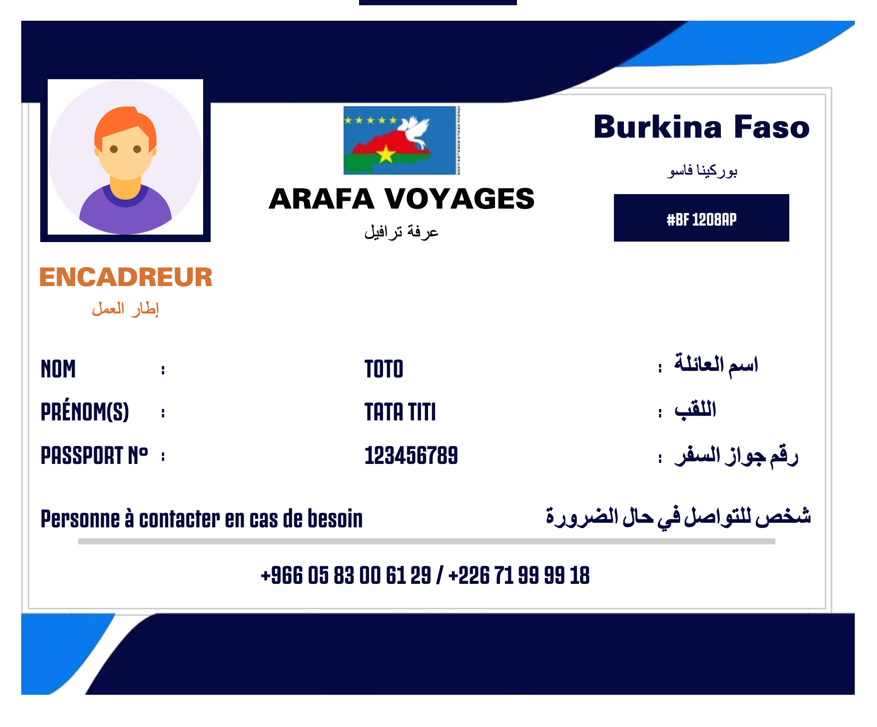
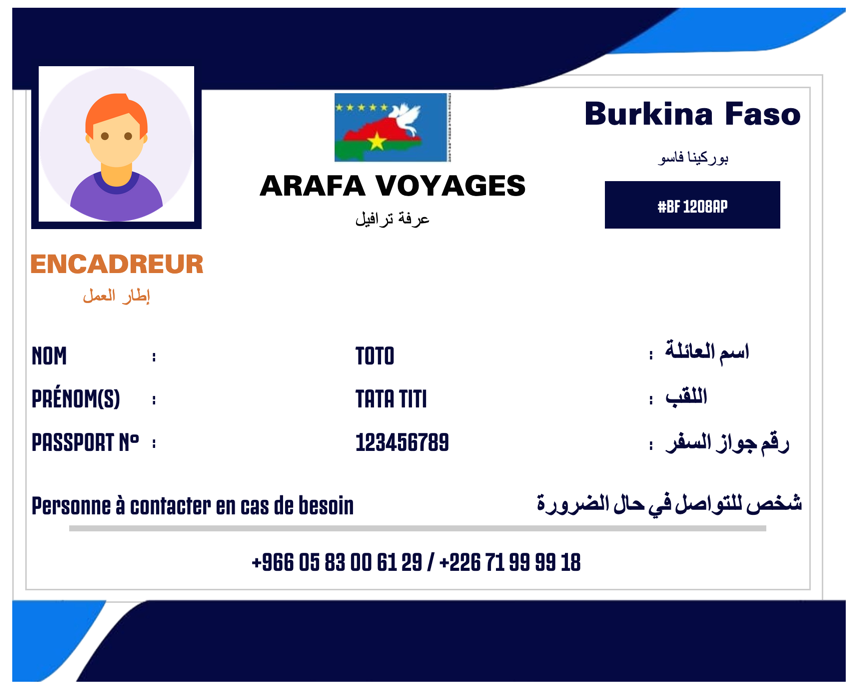
enhance(assets): improve border space

diff --git a/css/card.css b/css/card.css
@@ -57,10 +57,10 @@
   height: 100%;
 }
 .card::after {
-  width: calc(100% - 1rem);
-  height: calc(100% - 1rem);
-  top: 0.5rem;
-  left: 0.5rem;
+  width: calc(100% - 2rem);
+  height: calc(100% - 2rem);
+  top: 1rem;
+  left: 1rem;
 }
 .card .card-header {
   display: flex;
